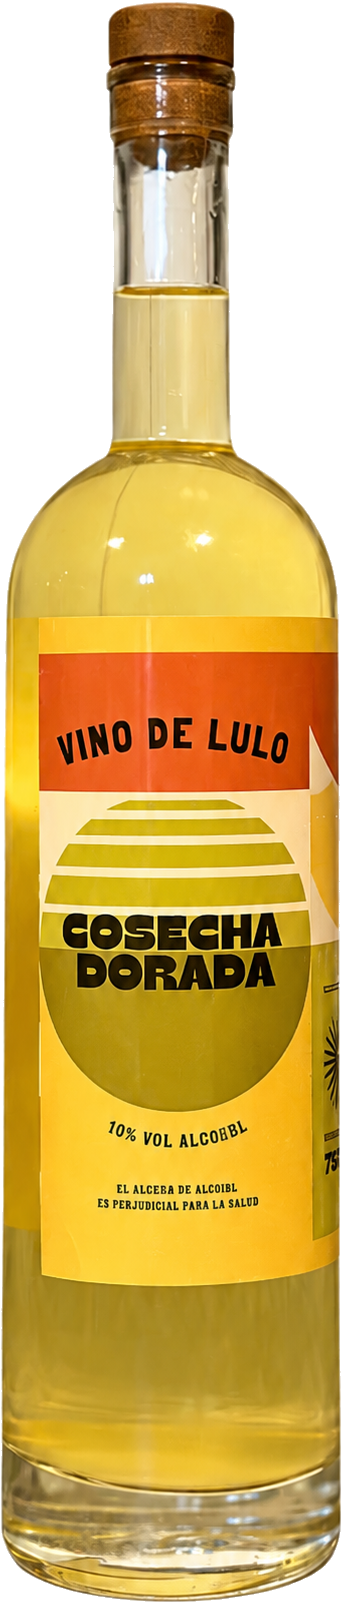
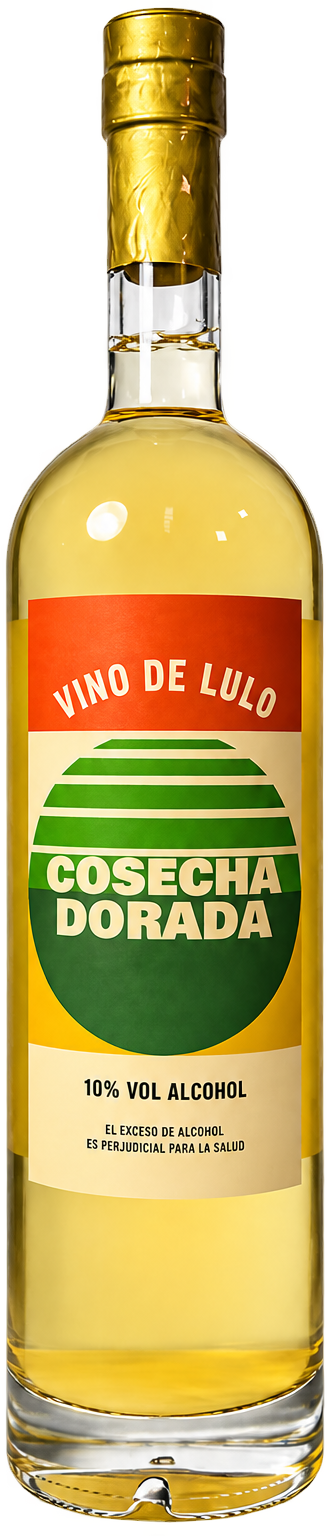
feat: update hero bottle image and enlarge it on desktop
Swaps the drink1 bottle image and increases its size on desktop
viewports (md breakpoint) while keeping the mobile size unchanged.

diff --git a/modern-gen-z-energy-drink-landi-hq/components/hero-section.tsx b/modern-gen-z-energy-drink-landi-hq/components/hero-section.tsx
@@ -196,7 +196,7 @@ export function HeroSection() {
                   alt="Botella Cosecha Dorada - Vino de Lulo"
                   width={343}
                   height={1604}
-                  className="relative z-10 drop-shadow-2xl w-auto h-[clamp(20rem,55vh,34rem)] md:h-[clamp(18rem,52vh,34rem)] max-w-[80vw]"
+                  className="relative z-10 drop-shadow-2xl w-auto h-[clamp(20rem,55vh,34rem)] md:h-[clamp(22rem,62vh,42rem)] max-w-[80vw]"
                   priority
                 />
               </motion.div>
